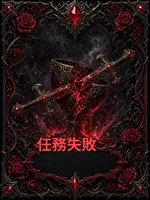
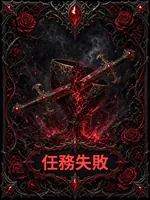
Quest card art: centre titles on plaques; cache-bust

Changed region(s): [[0.24, 0.66, 0.72, 0.87]]

diff --git a/public/app.js b/public/app.js
@@ -568,7 +568,7 @@ function showQuest(ev) {
   for (let i = cards.length - 1; i > 0; i--) { const j = Math.floor(Math.random() * (i + 1)); [cards[i], cards[j]] = [cards[j], cards[i]]; }
   const sub = ev.fails === 0 ? '全部係成功牌' : `${ev.fails} 張失敗牌${ev.success ? '（本輪需要 2 張失敗先算失敗）' : ''}`;
   openModal(`<div class="qreveal"><div class="qr-h">第 ${ev.round + 1} 個任務 · 結果揭曉</div><div class="qr-sub">牌已打亂，睇唔到係邊個出</div>
-    <div class="qr-cards">${cards.map(c => `<div class="qc"><div class="qci"><div class="f b"><span>?</span></div><div class="f fr ${c ? 'ok' : 'ng'}"><img src="/img/${c ? 'q_success' : 'q_fail'}_t.webp" alt="${c ? '成功' : '失敗'}"></div></div></div>`).join('')}</div>
+    <div class="qr-cards">${cards.map(c => `<div class="qc"><div class="qci"><div class="f b"><span>?</span></div><div class="f fr ${c ? 'ok' : 'ng'}"><img src="/img/${c ? 'q_success' : 'q_fail'}_t.webp?v=2" alt="${c ? '成功' : '失敗'}"></div></div></div>`).join('')}</div>
     <div class="qr-res ${ev.success ? 'ok' : 'ng'}" id="tl"><div class="t">${ev.success ? '任務成功' : '任務失敗'}</div><div class="s">${sub}</div></div>
     <button class="btn big" id="ok">繼續</button></div>`, async (el) => {
     $('#ok', el).onclick = closeModal;
@@ -767,7 +767,7 @@ function gameHtml() {
     const onTeam = g.team.includes(meId);
     center = `<b>任務進行中</b>${g.questDone}/${g.team.length} 已出卡`;
     panel = `<div class="phase">任務進行中</div><div>${g.team.map(id => chip(id)).join('')}</div>${g.twoFailRound === g.round ? '<div class="small result-evil" style="margin-top:6px">本輪需 2 張失敗才算任務失敗</div>' : ''}` +
-      (onTeam && !me.questSubmitted ? `<div class="small muted" style="margin-top:6px">秘密選擇你的任務卡：</div><div class="qpick"><button class="qcard ok" data-a="quest" data-v="1"><img src="/img/q_success.webp" alt="任務成功" width="240" height="320" decoding="async"></button><button class="qcard ng" data-a="quest" data-v="0" ${me.canFail ? '' : 'disabled'}><img src="/img/q_fail.webp" alt="任務失敗" width="240" height="320" decoding="async"></button></div>${me.canFail ? '' : '<div class="small muted center" style="margin-top:6px">你只能出「成功」</div>'}`
+      (onTeam && !me.questSubmitted ? `<div class="small muted" style="margin-top:6px">秘密選擇你的任務卡：</div><div class="qpick"><button class="qcard ok" data-a="quest" data-v="1"><img src="/img/q_success.webp?v=2" alt="任務成功" width="240" height="320" decoding="async"></button><button class="qcard ng" data-a="quest" data-v="0" ${me.canFail ? '' : 'disabled'}><img src="/img/q_fail.webp?v=2" alt="任務失敗" width="240" height="320" decoding="async"></button></div>${me.canFail ? '' : '<div class="small muted center" style="margin-top:6px">你只能出「成功」</div>'}`
         : `<div class="center muted" style="margin-top:10px">${onTeam ? '你已交卡，等待其他隊員…' : '等待隊員秘密出卡…'}</div>`);
   } else if (g.phase === 'lady') {
     center = `<b>湖中仙女</b>${esc(P(g.ladyId).name)} 查驗中`;

diff --git a/public/index.html b/public/index.html
@@ -30,6 +30,6 @@
 <div id="modal" class="modal hidden"><div class="sheet" id="sheet"></div></div>
 <div id="toast" class="toast hidden"></div>
 <script defer src="/vendor/socket.io.min.js"></script>
-<script defer src="/app.js?v=12"></script>
+<script defer src="/app.js?v=13"></script>
 </body>
 </html>
